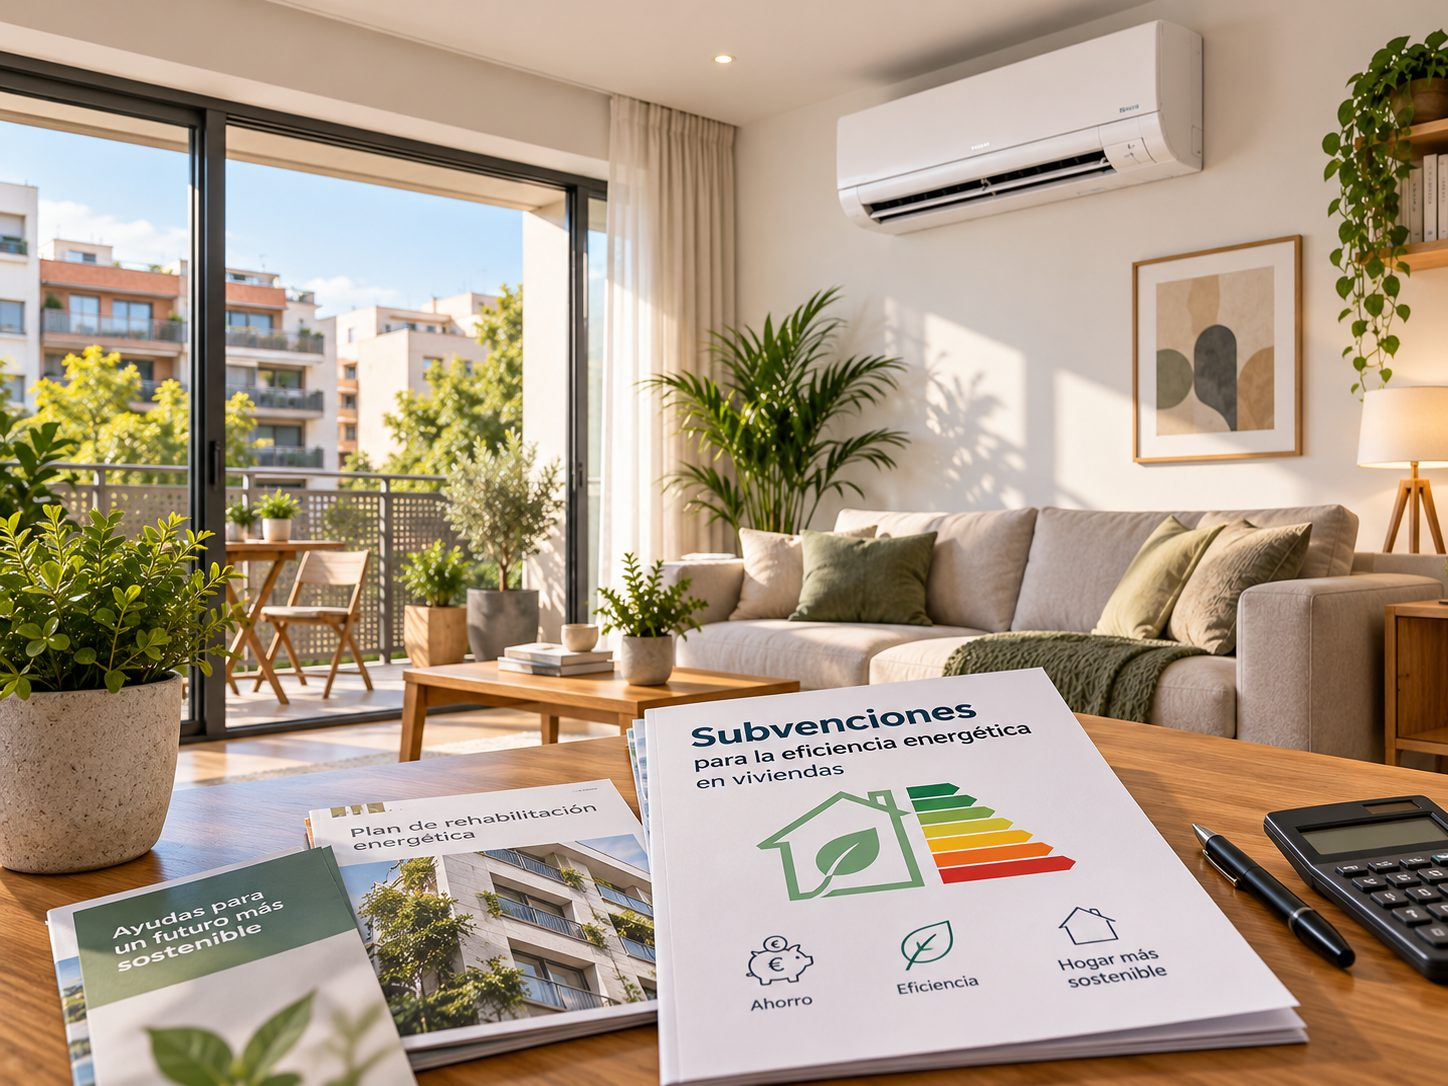
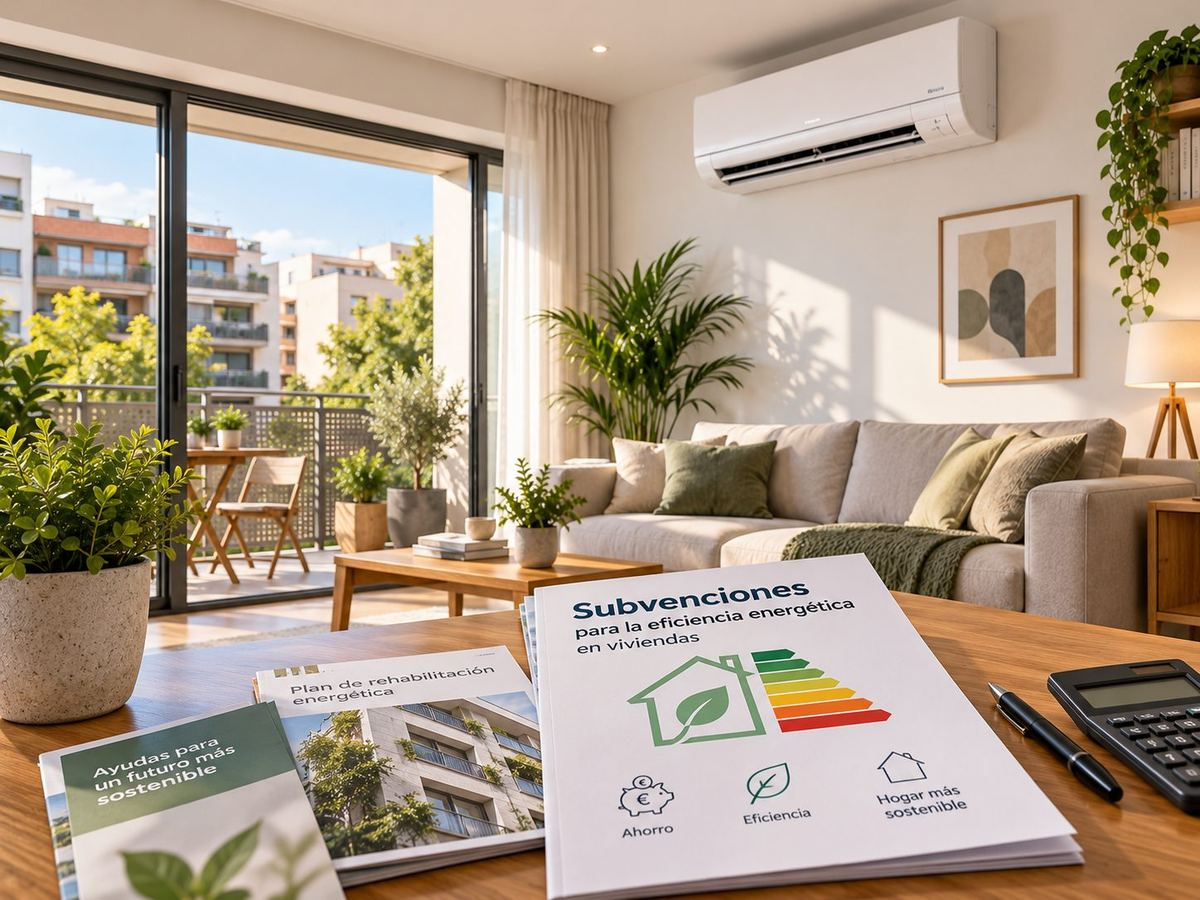
Imágenes: las 18 más pesadas a 1200 px y comprimidas, de 3,9 MB a 2,8 MB, mismos nombres y proporciones (F6)
Claude-Session: https://claude.ai/code/session_01JXYatmNAGwJL5F2PQLwaJs

Changed region(s): [[0.0, 0.4667, 0.1542, 0.56], [0.6167, 0.6533, 0.6783, 0.6844], [0.5242, 0.6844, 0.5858, 0.7156]]

diff --git a/aires-acondicionados/zonas/eixample.html b/aires-acondicionados/zonas/eixample.html
@@ -171,7 +171,7 @@
 <section class="section">
   <div class="container">
     <div class="service-detail-grid fade-up">
-      <div class="service-detail-img"><picture><source srcset="../img/guia-normativa-eixample.webp" type="image/webp"><img width="1448" height="1086" src="../img/guia-normativa-eixample.jpg" alt="Fachada del Eixample con unidades exteriores en los balcones, lo que la normativa intenta evitar (imagen ilustrativa)" loading="lazy" style="border-radius:var(--radius-xl);width:100%;object-fit:cover;height:400px;background:linear-gradient(135deg,#EBF4FF,#F0FFF8)"></picture></div>
+      <div class="service-detail-img"><picture><source srcset="../img/guia-normativa-eixample.webp" type="image/webp"><img width="1200" height="900" src="../img/guia-normativa-eixample.jpg" alt="Fachada del Eixample con unidades exteriores en los balcones, lo que la normativa intenta evitar (imagen ilustrativa)" loading="lazy" style="border-radius:var(--radius-xl);width:100%;object-fit:cover;height:400px;background:linear-gradient(135deg,#EBF4FF,#F0FFF8)"></picture></div>
       <div class="service-detail-content">
         <span class="section-label">Cobertura en Eixample</span>
         <h2>Instalación de Aire Acondicionado en Eixample</h2>

diff --git a/aires-acondicionados/zonas/hospitalet.html b/aires-acondicionados/zonas/hospitalet.html
@@ -167,7 +167,7 @@
 <section class="section">
   <div class="container">
     <div class="service-detail-grid fade-up">
-      <div class="service-detail-img"><picture><source srcset="../img/guia-frigorias-salon.webp" type="image/webp"><img width="1448" height="1086" src="../img/guia-frigorias-salon.jpg" alt="Salón de un piso con split de pared y mando en la mano (imagen ilustrativa)" loading="lazy" style="border-radius:var(--radius-xl);width:100%;object-fit:cover;height:400px;background:linear-gradient(135deg,#EBF4FF,#F0FFF8)"></picture></div>
+      <div class="service-detail-img"><picture><source srcset="../img/guia-frigorias-salon.webp" type="image/webp"><img width="1200" height="900" src="../img/guia-frigorias-salon.jpg" alt="Salón de un piso con split de pared y mando en la mano (imagen ilustrativa)" loading="lazy" style="border-radius:var(--radius-xl);width:100%;object-fit:cover;height:400px;background:linear-gradient(135deg,#EBF4FF,#F0FFF8)"></picture></div>
       <div class="service-detail-content">
         <span class="section-label">Cobertura en L'Hospitalet de Llobregat</span>
         <h2>Instalación de Aire Acondicionado en L'Hospitalet de Llobregat</h2>

diff --git a/aires-acondicionados/zonas/horta-guinardo.html b/aires-acondicionados/zonas/horta-guinardo.html
@@ -171,7 +171,7 @@
 <section class="section">
   <div class="container">
     <div class="service-detail-grid fade-up">
-      <div class="service-detail-img"><picture><source srcset="../img/guia-consumo-mando-eco.webp" type="image/webp"><img width="1448" height="1086" src="../img/guia-consumo-mando-eco.jpg" alt="Mando de aire acondicionado en modo eco en un salón (imagen ilustrativa)" loading="lazy" style="border-radius:var(--radius-xl);width:100%;object-fit:cover;height:400px;background:linear-gradient(135deg,#EBF4FF,#F0FFF8)"></picture></div>
+      <div class="service-detail-img"><picture><source srcset="../img/guia-consumo-mando-eco.webp" type="image/webp"><img width="1200" height="900" src="../img/guia-consumo-mando-eco.jpg" alt="Mando de aire acondicionado en modo eco en un salón (imagen ilustrativa)" loading="lazy" style="border-radius:var(--radius-xl);width:100%;object-fit:cover;height:400px;background:linear-gradient(135deg,#EBF4FF,#F0FFF8)"></picture></div>
       <div class="service-detail-content">
         <span class="section-label">Cobertura en Horta-Guinardó</span>
         <h2>Instalación de Aire Acondicionado en Horta-Guinardó</h2>

diff --git a/aires-acondicionados/zonas/castelldefels.html b/aires-acondicionados/zonas/castelldefels.html
@@ -167,7 +167,7 @@
 <section class="section">
   <div class="container">
     <div class="service-detail-grid fade-up">
-      <div class="service-detail-img"><picture><source srcset="../img/guia-ubicacion-terraza.webp" type="image/webp"><img width="1448" height="1086" src="../img/guia-ubicacion-terraza.jpg" alt="Unidad exterior de aire acondicionado en una terraza (imagen ilustrativa)" loading="lazy" style="border-radius:var(--radius-xl);width:100%;object-fit:cover;height:400px;background:linear-gradient(135deg,#EBF4FF,#F0FFF8)"></picture></div>
+      <div class="service-detail-img"><picture><source srcset="../img/guia-ubicacion-terraza.webp" type="image/webp"><img width="1200" height="900" src="../img/guia-ubicacion-terraza.jpg" alt="Unidad exterior de aire acondicionado en una terraza (imagen ilustrativa)" loading="lazy" style="border-radius:var(--radius-xl);width:100%;object-fit:cover;height:400px;background:linear-gradient(135deg,#EBF4FF,#F0FFF8)"></picture></div>
       <div class="service-detail-content">
         <span class="section-label">Cobertura en Castelldefels</span>
         <h2>Instalación de Aire Acondicionado en Castelldefels</h2>

diff --git a/aires-acondicionados/zonas/sant-andreu.html b/aires-acondicionados/zonas/sant-andreu.html
@@ -171,7 +171,7 @@
 <section class="section">
   <div class="container">
     <div class="service-detail-grid fade-up">
-      <div class="service-detail-img"><picture><source srcset="../img/tecnico-medicion-laser.webp" type="image/webp"><img width="1448" height="1086" src="../img/tecnico-medicion-laser.jpg" alt="Técnico midiendo la pared antes de instalar un split (imagen ilustrativa)" loading="lazy" style="border-radius:var(--radius-xl);width:100%;object-fit:cover;height:400px;background:linear-gradient(135deg,#EBF4FF,#F0FFF8)"></picture></div>
+      <div class="service-detail-img"><picture><source srcset="../img/tecnico-medicion-laser.webp" type="image/webp"><img width="1200" height="900" src="../img/tecnico-medicion-laser.jpg" alt="Técnico midiendo la pared antes de instalar un split (imagen ilustrativa)" loading="lazy" style="border-radius:var(--radius-xl);width:100%;object-fit:cover;height:400px;background:linear-gradient(135deg,#EBF4FF,#F0FFF8)"></picture></div>
       <div class="service-detail-content">
         <span class="section-label">Cobertura en Sant Andreu</span>
         <h2>Instalación de Aire Acondicionado en Sant Andreu</h2>

diff --git a/aires-acondicionados/zonas/nou-barris.html b/aires-acondicionados/zonas/nou-barris.html
@@ -171,7 +171,7 @@
 <section class="section">
   <div class="container">
     <div class="service-detail-grid fade-up">
-      <div class="service-detail-img"><picture><source srcset="../img/guia-frigorias-salon.webp" type="image/webp"><img width="1448" height="1086" src="../img/guia-frigorias-salon.jpg" alt="Salón de un piso con split de pared y mando en la mano (imagen ilustrativa)" loading="lazy" style="border-radius:var(--radius-xl);width:100%;object-fit:cover;height:400px;background:linear-gradient(135deg,#EBF4FF,#F0FFF8)"></picture></div>
+      <div class="service-detail-img"><picture><source srcset="../img/guia-frigorias-salon.webp" type="image/webp"><img width="1200" height="900" src="../img/guia-frigorias-salon.jpg" alt="Salón de un piso con split de pared y mando en la mano (imagen ilustrativa)" loading="lazy" style="border-radius:var(--radius-xl);width:100%;object-fit:cover;height:400px;background:linear-gradient(135deg,#EBF4FF,#F0FFF8)"></picture></div>
       <div class="service-detail-content">
         <span class="section-label">Cobertura en Nou Barris</span>
         <h2>Instalación de Aire Acondicionado en Nou Barris</h2>

diff --git a/aires-acondicionados/zonas/terrassa.html b/aires-acondicionados/zonas/terrassa.html
@@ -167,7 +167,7 @@
 <section class="section">
   <div class="container">
     <div class="service-detail-grid fade-up">
-      <div class="service-detail-img"><picture><source srcset="../img/tecnico-medicion-laser.webp" type="image/webp"><img width="1448" height="1086" src="../img/tecnico-medicion-laser.jpg" alt="Técnico midiendo la pared antes de instalar un split (imagen ilustrativa)" loading="lazy" style="border-radius:var(--radius-xl);width:100%;object-fit:cover;height:400px;background:linear-gradient(135deg,#EBF4FF,#F0FFF8)"></picture></div>
+      <div class="service-detail-img"><picture><source srcset="../img/tecnico-medicion-laser.webp" type="image/webp"><img width="1200" height="900" src="../img/tecnico-medicion-laser.jpg" alt="Técnico midiendo la pared antes de instalar un split (imagen ilustrativa)" loading="lazy" style="border-radius:var(--radius-xl);width:100%;object-fit:cover;height:400px;background:linear-gradient(135deg,#EBF4FF,#F0FFF8)"></picture></div>
       <div class="service-detail-content">
         <span class="section-label">Cobertura en Terrassa</span>
         <h2>Instalación de Aire Acondicionado en Terrassa</h2>

diff --git a/aires-acondicionados/zonas/sabadell.html b/aires-acondicionados/zonas/sabadell.html
@@ -167,7 +167,7 @@
 <section class="section">
   <div class="container">
     <div class="service-detail-grid fade-up">
-      <div class="service-detail-img"><picture><source srcset="../img/guia-consumo-mando-eco.webp" type="image/webp"><img width="1448" height="1086" src="../img/guia-consumo-mando-eco.jpg" alt="Mando de aire acondicionado en modo eco en un salón (imagen ilustrativa)" loading="lazy" style="border-radius:var(--radius-xl);width:100%;object-fit:cover;height:400px;background:linear-gradient(135deg,#EBF4FF,#F0FFF8)"></picture></div>
+      <div class="service-detail-img"><picture><source srcset="../img/guia-consumo-mando-eco.webp" type="image/webp"><img width="1200" height="900" src="../img/guia-consumo-mando-eco.jpg" alt="Mando de aire acondicionado en modo eco en un salón (imagen ilustrativa)" loading="lazy" style="border-radius:var(--radius-xl);width:100%;object-fit:cover;height:400px;background:linear-gradient(135deg,#EBF4FF,#F0FFF8)"></picture></div>
       <div class="service-detail-content">
         <span class="section-label">Cobertura en Sabadell</span>
         <h2>Instalación de Aire Acondicionado en Sabadell</h2>

diff --git a/aires-acondicionados/zonas/gracia.html b/aires-acondicionados/zonas/gracia.html
@@ -179,7 +179,7 @@
 <section class="section">
   <div class="container">
     <div class="service-detail-grid fade-up">
-      <div class="service-detail-img"><picture><source srcset="../img/guia-ubicacion-terraza.webp" type="image/webp"><img width="1448" height="1086" src="../img/guia-ubicacion-terraza.jpg" alt="Unidad exterior de aire acondicionado en una terraza (imagen ilustrativa)" loading="lazy" style="border-radius:var(--radius-xl);width:100%;object-fit:cover;height:400px;background:linear-gradient(135deg,#EBF4FF,#F0FFF8)"></picture></div>
+      <div class="service-detail-img"><picture><source srcset="../img/guia-ubicacion-terraza.webp" type="image/webp"><img width="1200" height="900" src="../img/guia-ubicacion-terraza.jpg" alt="Unidad exterior de aire acondicionado en una terraza (imagen ilustrativa)" loading="lazy" style="border-radius:var(--radius-xl);width:100%;object-fit:cover;height:400px;background:linear-gradient(135deg,#EBF4FF,#F0FFF8)"></picture></div>
       <div class="service-detail-content">
         <span class="section-label">Cobertura en Gràcia</span>
         <h2>Instalación de Aire Acondicionado en Gràcia</h2>
